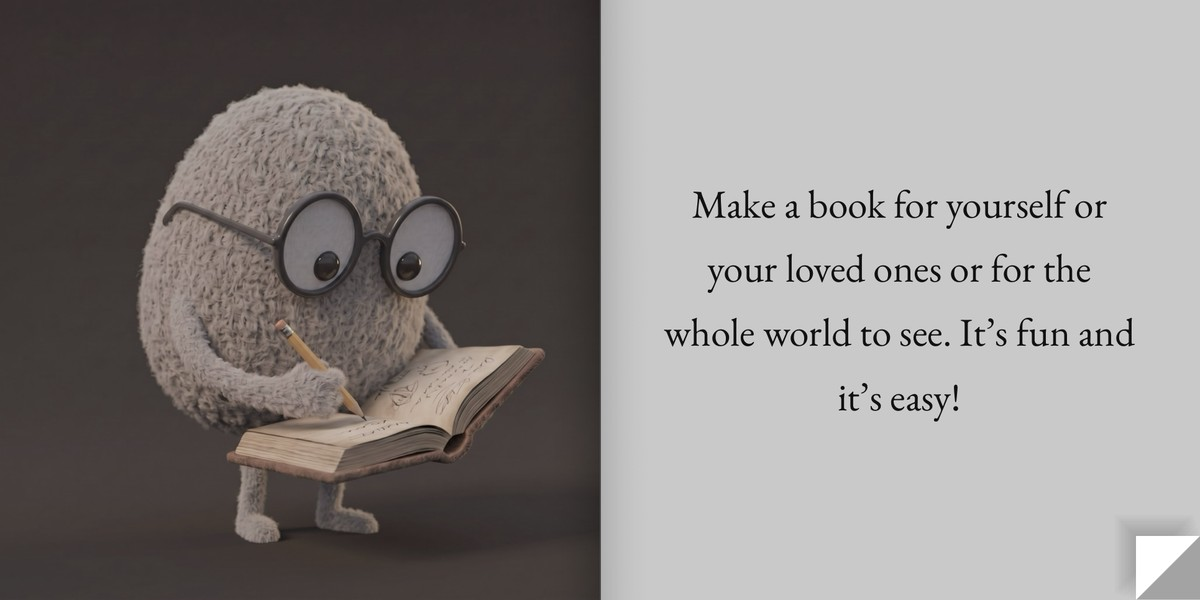
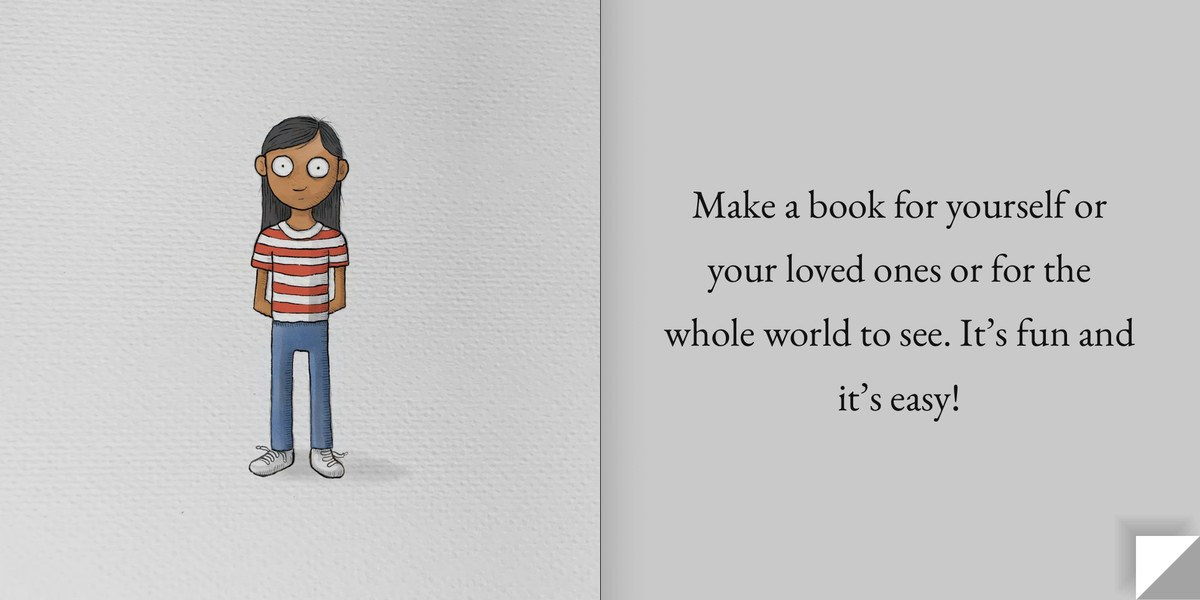
The felt mascot is away (except the profile pictures) until the new hand-drawn one: Book Store, library tip, Ideas Room, Tips for Authors cover, stamps
Claude-Session: https://claude.ai/code/session_01NDsvQ4w6b4M39K7iEhCswz

diff --git a/src/screens/Notebook.js b/src/screens/Notebook.js
@@ -24,6 +24,7 @@ import { EarArt } from '../components/Ear';
 import { FlapPeel, snapshot, supportsCurl } from '../components/Curl';
 import ToolPic from '../components/ToolPic';
 import { STAMPS, stampWidth } from '../stamps';
+const SHOW_STAMPS = false; // the stamps are the felt mascot: away until Jörg's hand-drawn one arrives (drawings that have them still show them)
 import { BRUSHES, GREYS, PENS, PENS_BRIGHT, SHAPES, wheelColour, SIZES, makeFill, mixColours, near, shapePts, withMirrors } from '../strokes';
 import { blankNote, blankSketch, dropNotebookPicture, keepNotebookPicture, loadNotebook, saveNotebook } from '../notebook';
 import { allBadges, currentStreak, loadLog, markFirst, onNewBadge } from '../badges';
@@ -1345,11 +1346,11 @@ export function DrawEditor({ insets, tall, photo, strokes: start, title, onDone 
           <Pressable onPress={() => setMixing((x) => !x)} style={[styles.toolWide, mixing && styles.toolOn]} accessibilityRole="button" accessibilityLabel={t('Mix colours')}><Text style={styles.toolText}>{t('Mix')}</Text></Pressable>
           <Pressable onPress={() => { setShapesOpen((x) => !x); if (shapesOpen) setShape(null); }} style={[styles.toolWide, (shapesOpen || shape) && styles.toolOn]} accessibilityRole="button" accessibilityLabel={t('Shapes')}><Text style={styles.toolText}>{t('Shapes')}</Text></Pressable>
           <Pressable onPress={() => setMirror((x) => !x)} style={[styles.toolWide, mirror && styles.toolOn]} accessibilityRole="button" accessibilityLabel={t('Mirror drawing')}><Text style={styles.toolText}>{t('Mirror')}</Text></Pressable>
-          <Pressable onPress={() => setStampsOpen((x) => !x)} style={[styles.toolWide, (stampsOpen || stamp) && styles.toolOn]} accessibilityRole="button" accessibilityLabel={t('Stamps')}><Text style={styles.toolText}>{t('Stamps')}</Text></Pressable>
+          {SHOW_STAMPS ? <Pressable onPress={() => setStampsOpen((x) => !x)} style={[styles.toolWide, (stampsOpen || stamp) && styles.toolOn]} accessibilityRole="button" accessibilityLabel={t('Stamps')}><Text style={styles.toolText}>{t('Stamps')}</Text></Pressable> : null}
           <Pressable onPress={() => setBehind((x) => !x)} style={[styles.toolWide, behind && styles.toolOn]} accessibilityRole="button" accessibilityLabel={t('Colour behind the lines')}><Text style={styles.toolText}>{t('Behind the lines')}</Text></Pressable>
           <Pressable onPress={() => { setDropper(true); setMore(false); }} style={[styles.toolWide, dropper && styles.toolOn]} accessibilityRole="button" accessibilityLabel={t('Pick up a colour from the page')}><Text style={styles.toolText}>{t('Pick up a colour')}</Text></Pressable>
         </View>
-        {stampsOpen ? (
+        {SHOW_STAMPS && stampsOpen ? (
           <View style={{ flexDirection: 'row', flexWrap: 'wrap', gap: 8, marginTop: 12 }}>
             {STAMPS.map(([k, src, aspect, name]) => {
               const d = Math.floor((w - 44 - 5 * 8) / 6);

diff --git a/src/screens/Shelf.js b/src/screens/Shelf.js
@@ -36,6 +36,7 @@ const SELECT_ICON = require('../../assets/icon-select.png');
 const FOLDER = require('../../assets/folder.png'); // 560 × 564, Jörg's kraft folder
 const PENCIL = require('../../assets/pencil-shadow.png');
 const MUG = require('../../assets/mug-shadow.png'); // hot chocolate from above, already turned
+const SHOW_MASCOT = false; // the felt mascot is off everywhere but the profile pictures (25 Oct 2026); a hand-drawn one is coming
 const LEANER = require('../../assets/store-lean.png'); // Skippy: Jörg's grey character in sunglasses, leaning on the featured book (700 × 696)
 
 function Tile({ lean = false, spotId, plain, u, cover, coverArt, title, sub, onPress, onLongPress, plus, glyph, option, selecting, selected, badge, label, ear: showEar = false }) { // (no dog-ears on the covers)
@@ -56,7 +57,8 @@ function Tile({ lean = false, spotId, plain, u, cover, coverArt, title, sub, onP
     <Pressable onPress={press} onLongPress={onLongPress} style={{ width: tileWidth(winW), gap: 8 }} accessibilityRole="button" accessibilityLabel={label}
       onLayout={lean ? (e) => setLeanW(e.nativeEvent.layout.width) : undefined}>
       {/* the featured book: a grey character leans against its right side, his hand on its edge, feet on the felt */}
-      {lean && leanW ? (
+      {/* (the mascot is away until Jörg's new hand-drawn one arrives: SHOW_MASCOT brings this back) */}
+      {SHOW_MASCOT && lean && leanW ? (
         <Image source={LEANER} pointerEvents="none" resizeMode="contain" accessibilityIgnoresInvertColors
           style={{ position: 'absolute', zIndex: 2, width: leanW * 0.52 * 700 / 696, height: leanW * 0.52, left: leanW - leanW * 0.52 * 0.012, bottom: -leanW * 0.01 }} />
       ) : null}
@@ -354,10 +356,10 @@ export function Library({ onGarden, narrator, toast, onProfiles, u, stories, ope
               <View style={[styles.tipBox, noMore && styles.tipBoxOn]}>{noMore ? <Text style={styles.tipTick}>✓</Text> : null}</View>
               <Text style={styles.tipCheck}>{t('Don’t show this again')}</Text>
             </Pressable>
-            {/* Let's go! on the left; Coro (reading) on the right */}
+            {/* Let's go! on the left; the mascot on the right once the new one is drawn */}
             <View style={styles.tipFoot}>
               <Pressable onPress={closeTip} style={styles.tipOk} accessibilityRole="button"><Text style={styles.tipOkText}>{t('Let’s go!')}</Text></Pressable>
-              <Image source={TIP_CORO} style={styles.tipCoro} resizeMode="contain" accessibilityIgnoresInvertColors />
+              {SHOW_MASCOT ? <Image source={TIP_CORO} style={styles.tipCoro} resizeMode="contain" accessibilityIgnoresInvertColors /> : null}
             </View>
           </View>
         </View>

diff --git a/src/screens/IdeaRoom.js b/src/screens/IdeaRoom.js
@@ -11,8 +11,7 @@ import { useT } from '../i18n';
 import { useControls } from '../controls';
 
 const BAND_FELT = require('../../assets/band-ideas.png'); // Jörg's moss green felt banner (cropped close under the stitching, with a soft felt edge)
-const SKIPPY = require('../../assets/ideas-skippy.png'); // Skippy, daydreaming against his book (at the end of the ideas)
-const SPREAD = require('../../assets/ideas-spread.jpg'); // an open book: Skippy writing, and 'Make a book for yourself…' (under the words at the top)
+const SPREAD = require('../../assets/ideas-spread.jpg'); // an open book: a page of Different, and 'Make a book for yourself…' (under the words at the top)
 
 export default function IdeaRoom({ u, openMenu, onMake, onHelp }) {
   const t = useT();
@@ -62,10 +61,7 @@ export default function IdeaRoom({ u, openMenu, onMake, onHelp }) {
               })}
             </View>
           ); })}
-          {/* the end of the ideas: Skippy daydreaming */}
-          <View style={{ alignItems: 'center', marginTop: 30 }} accessibilityElementsHidden importantForAccessibility="no-hide-descendants">
-            <Image source={SKIPPY} style={{ width: 150, height: 97, marginTop: 2 }} resizeMode="contain" accessibilityIgnoresInvertColors />
-          </View>
+          {/* (the end of the ideas had the felt mascot daydreaming: away until the new hand-drawn one arrives) */}
         </View>
       </ScrollView>
     </WithBar>
